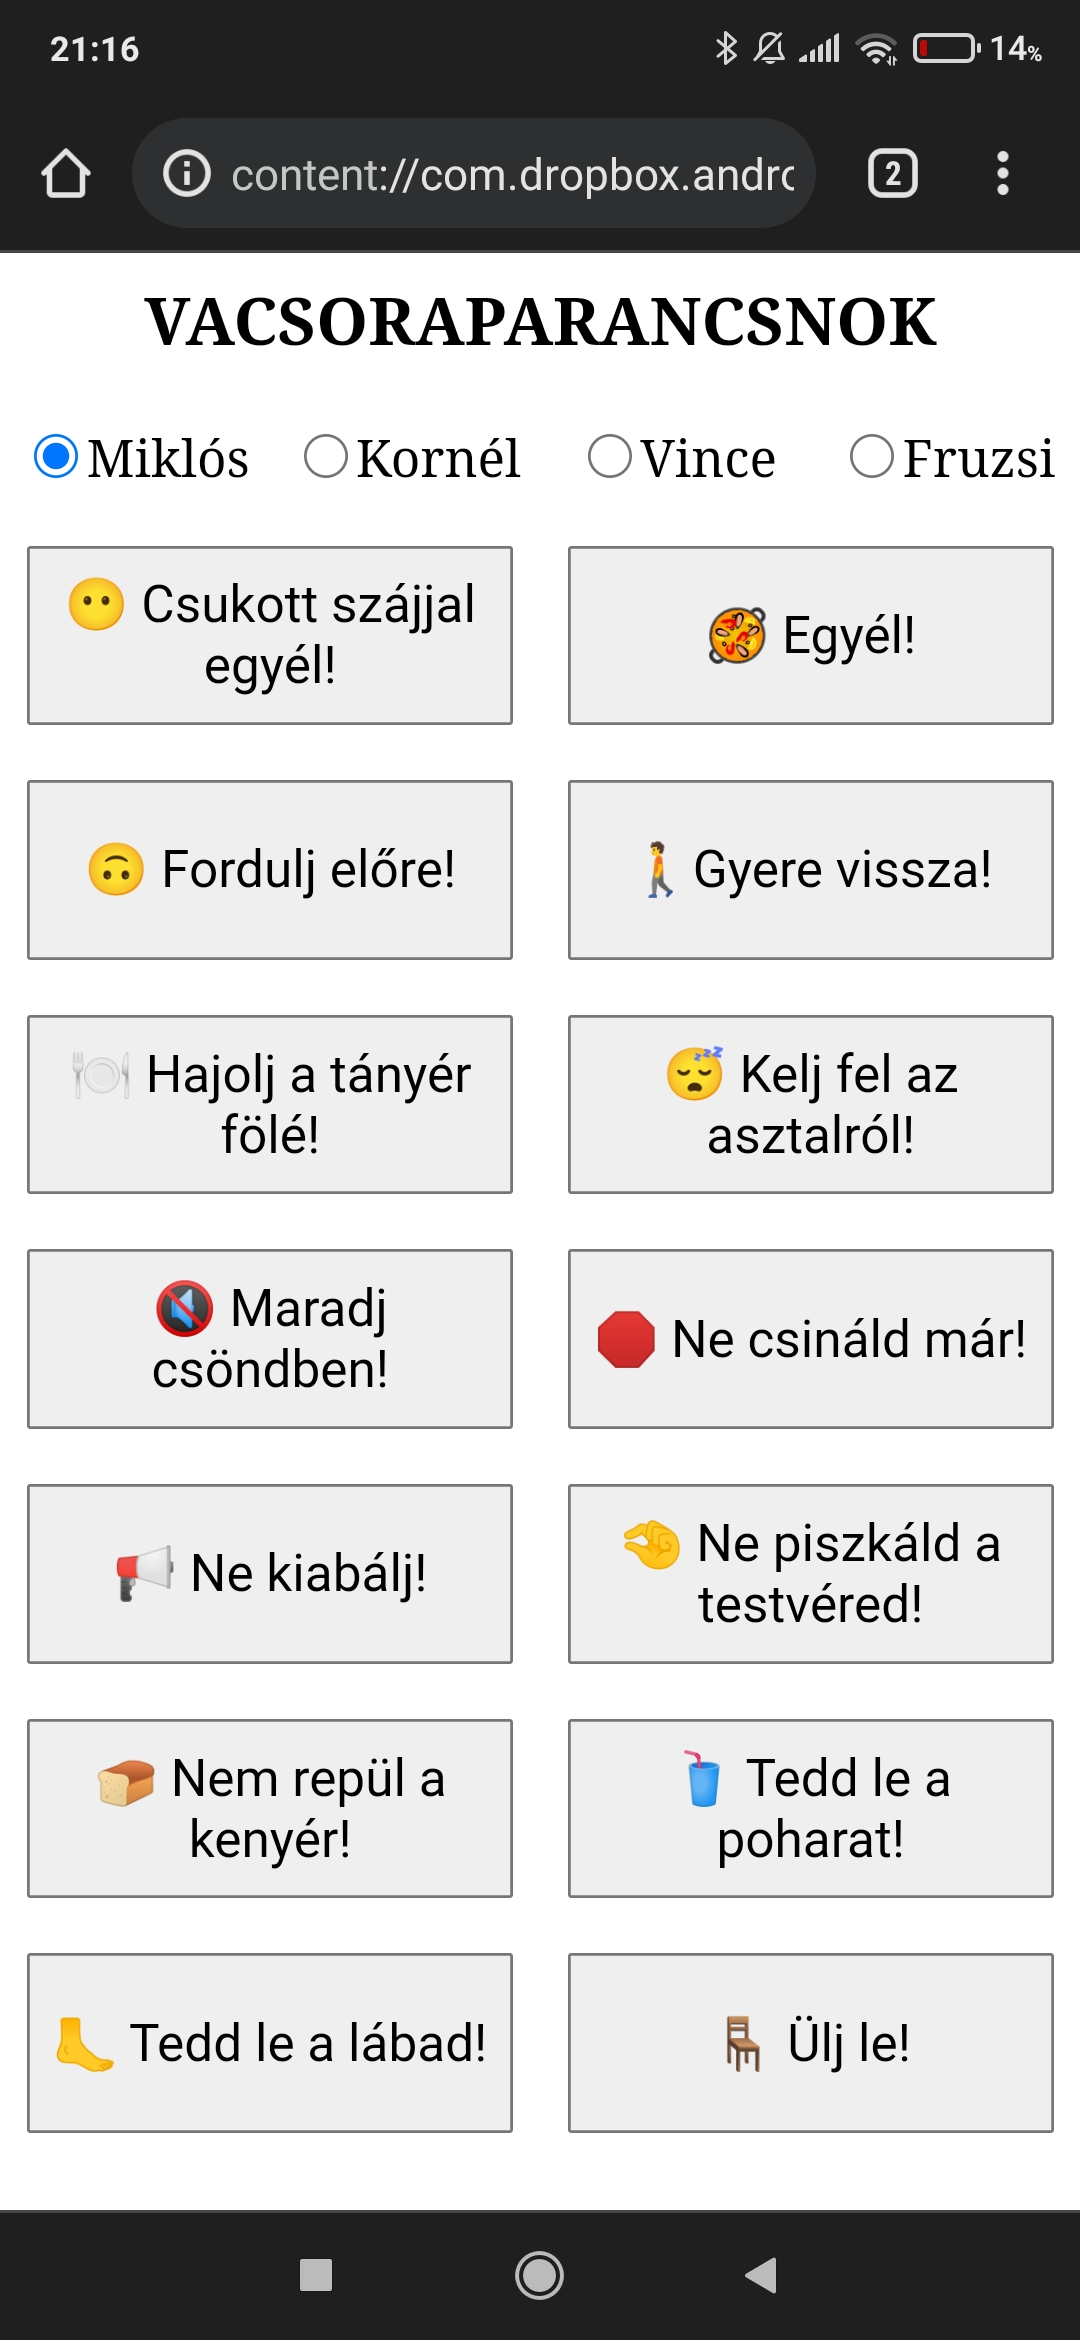
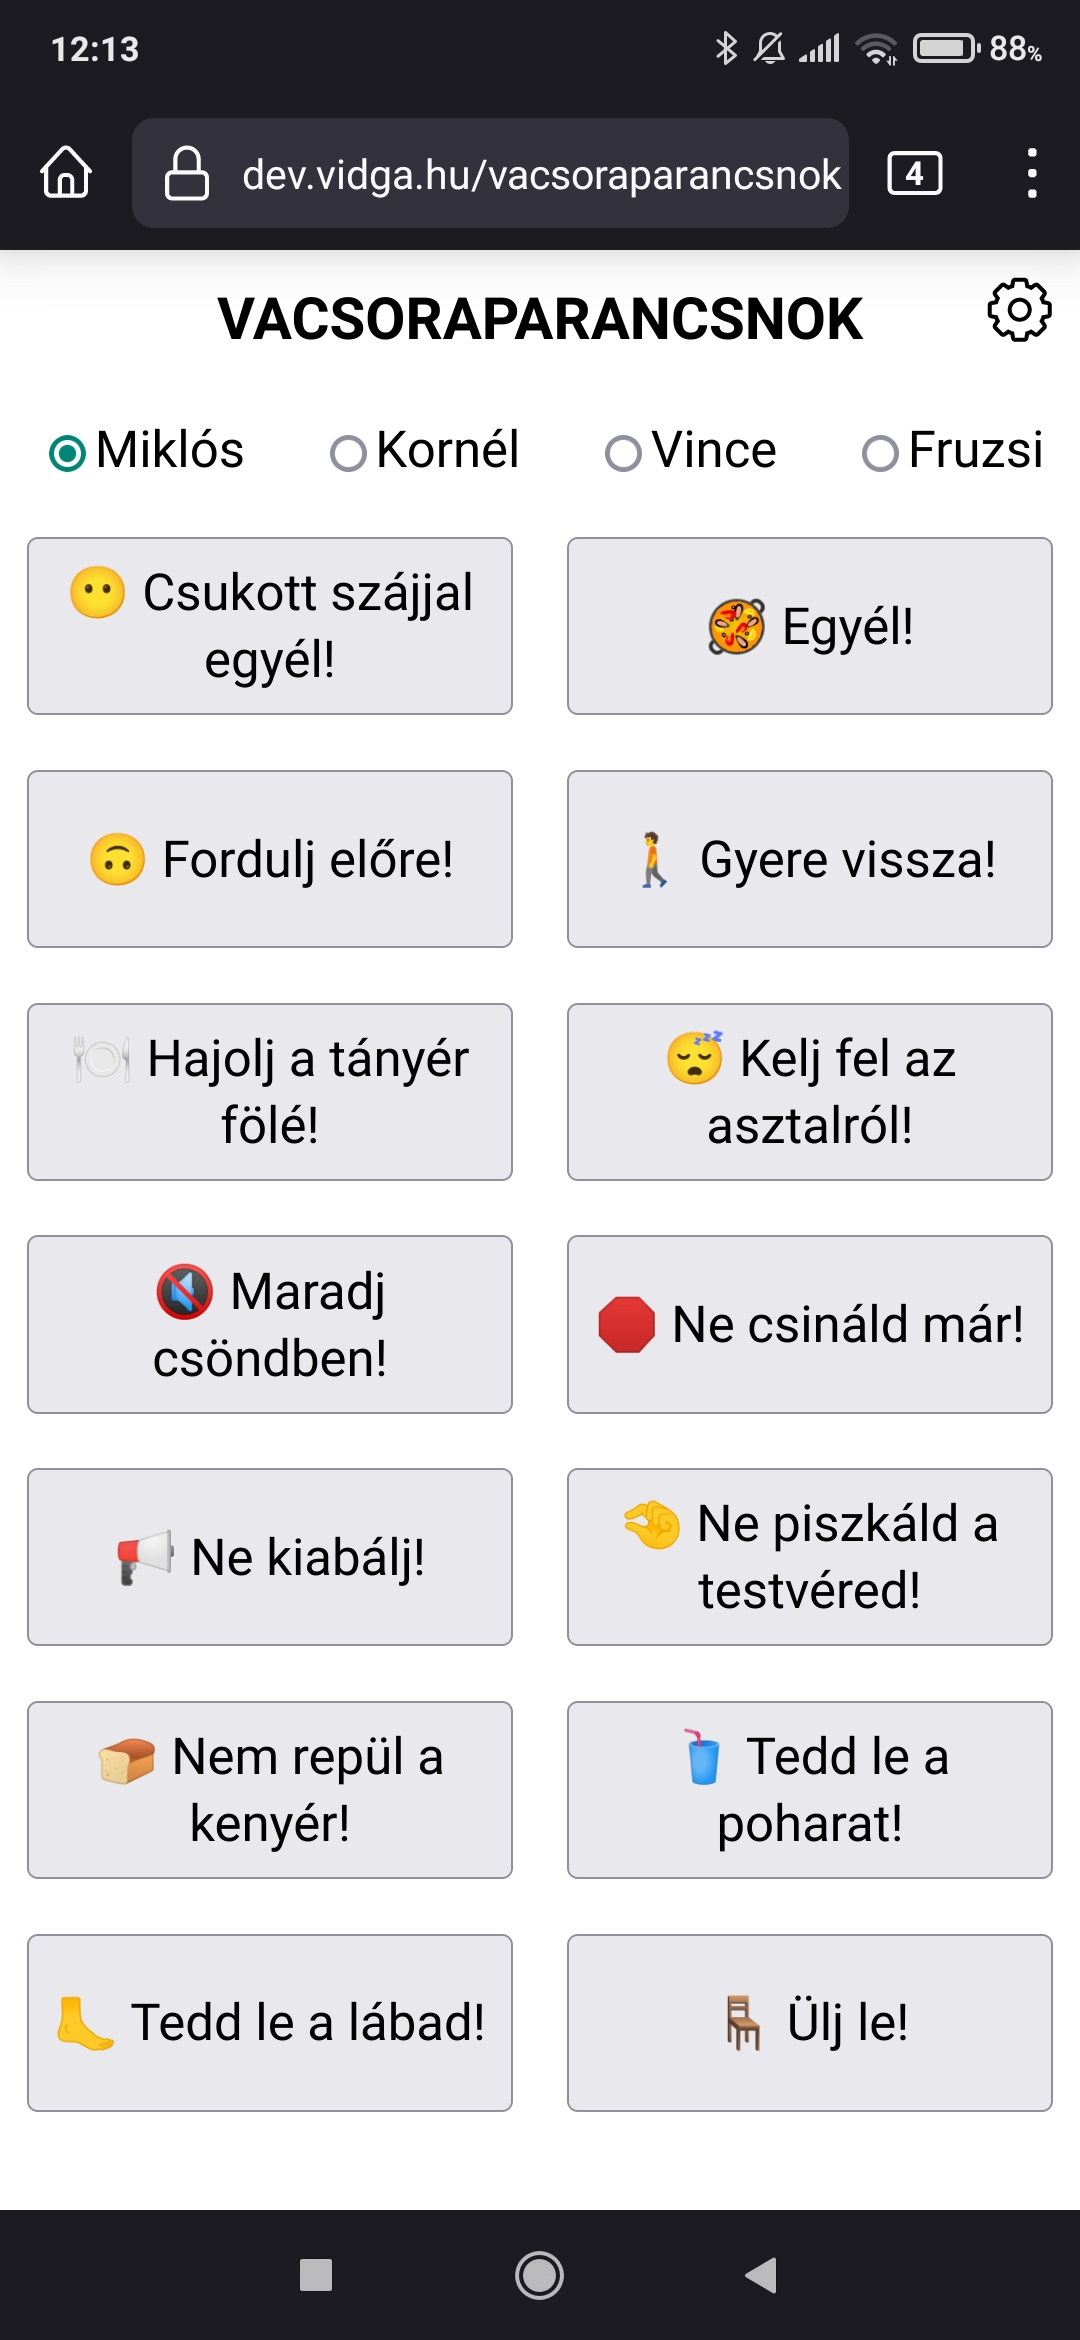
Add docs for configuration, new screenshots

diff --git a/README.md b/README.md
@@ -10,13 +10,16 @@ bluetooth-os kihangosítóra, válaszd ki a renitens gyermek nevét, majd nyomd 
 a helyzetnek megfelelő helyreutasító gombot, és hallgasd elégedetten, hogy a
 telefonod beszédszintetizátora rendre inti a gyerekedet, miközben nem emeli fel
 a hangját, nem veszti el a türelmét, nem jön ki a sodrából. Te meg falatozhatsz
-tovább nyugodtan. Az sem baj, ha a te gyerekeidet másképp hívják, vagy más
-dolgok miatt kell rájuk szólni: a HTML kód vonatkozó részei magukért beszélnek,
-bárki könnyűszerrel testre szabhatja őket!
+tovább nyugodtan.
+
+Az sem baj, ha a te gyerekeidet másképp hívják, vagy más dolgok miatt kell rájuk
+szólni: a 2.0-ás változatban már arra is lehetőséged van, hogy magából az
+alkalmazásból beállítsd a neveket és a helyreutasítások szövegét. A
+beállításaidat az oldal sütikben tárolja, így a legközelebbi betöltéskor is
+megmaradnak.
 
 A [Vacsoraparancsnok][] megmenti az estéd! 😍🥐
 
-<img src="vacsoraparancsnok.jpg" width="300"
- style="display:block; margin: 10px auto;">
+<img src="screenshots.png" width="700" style="display:block; margin: 10px auto;">
 
 [Vacsoraparancsnok]: https://dhanak.github.io/vacsoraparancsnok
